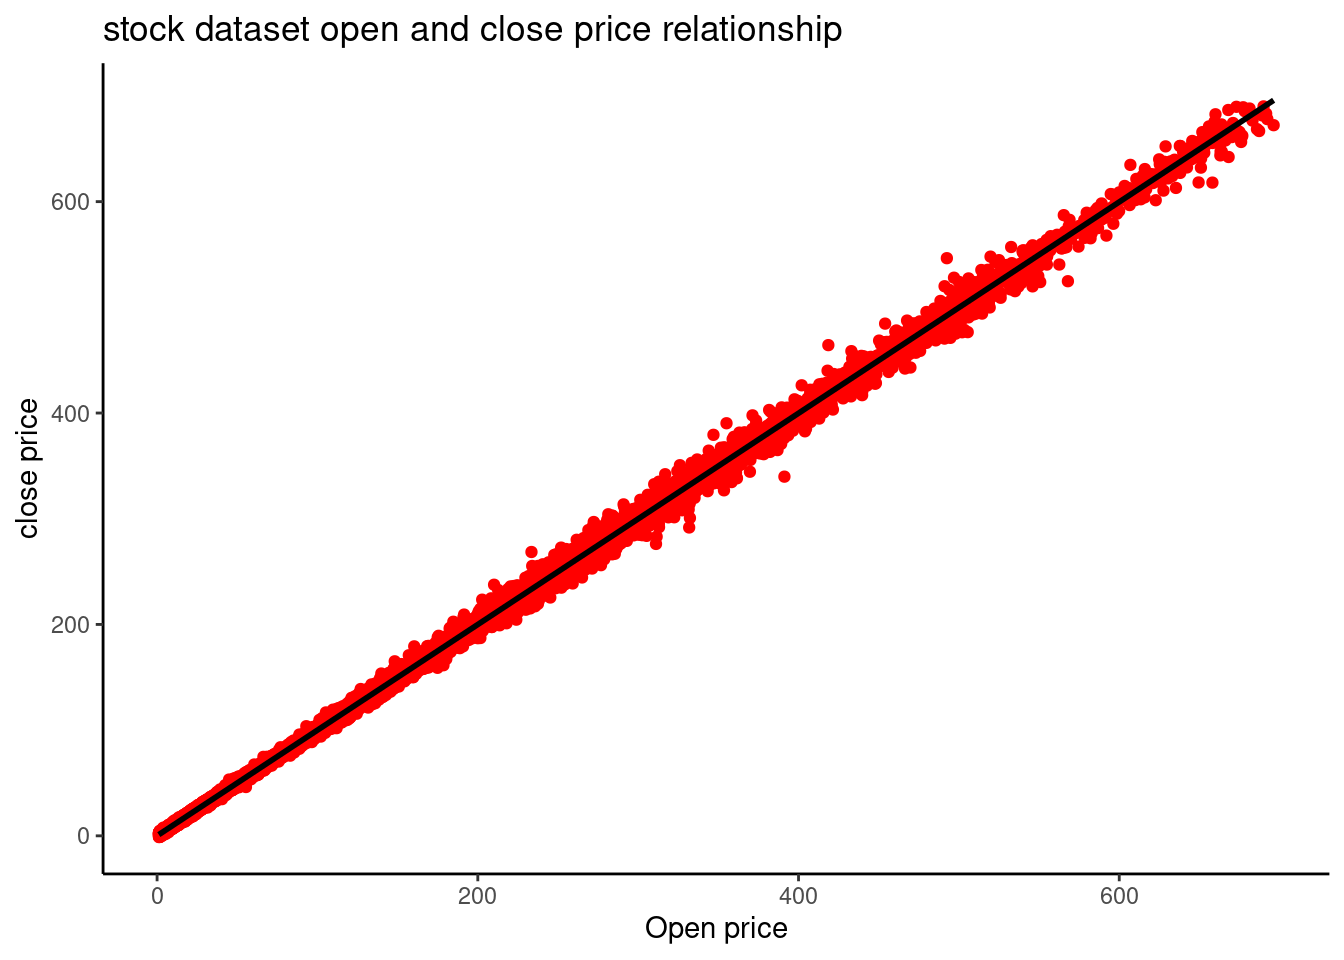
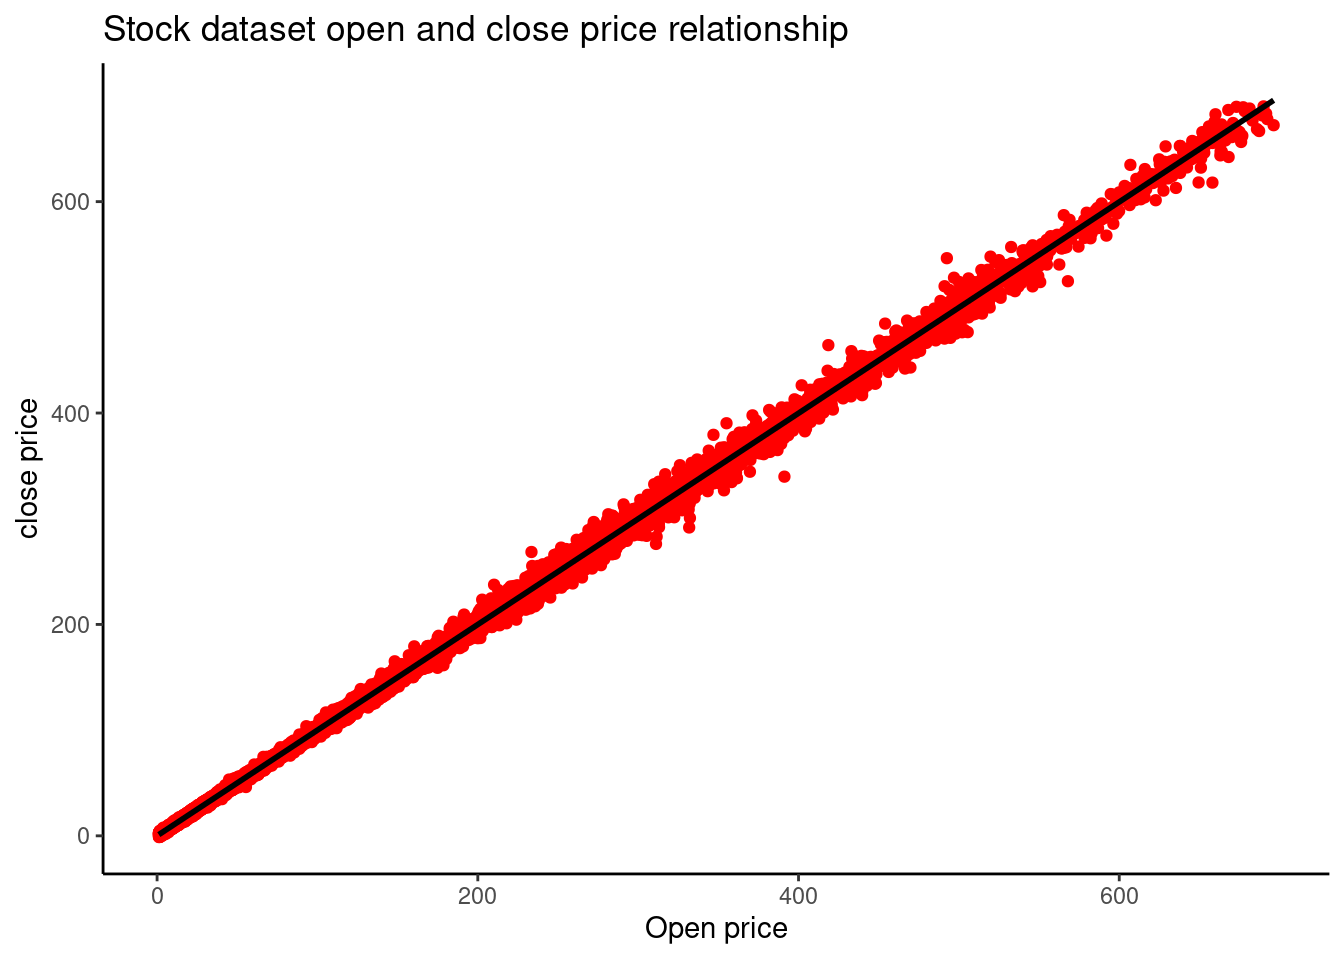
Added narrative until Ridge Regression

Changed region(s): [[0.0625, 0.0, 0.625, 0.0625]]

diff --git a/hw-04.html b/hw-04.html
@@ -114,9 +114,10 @@ pre > code.sourceCode > span > a:first-child::before { text-decoration: underlin
 </section>
 <section id="regression-in-r" class="level1">
 <h1>Regression in r</h1>
-<p>Regression is a modeling technique for predicting quantitative-valued target attributes.</p>
+<p>Regression is a modeling technique for predicting quantitative-valued target attributes. Works on the principle of <code>y = mx + c</code> .</p>
 <div class="cell">
-<div class="sourceCode cell-code" id="cb1"><pre class="sourceCode r code-with-copy"><code class="sourceCode r"><span id="cb1-1"><a href="#cb1-1" aria-hidden="true" tabindex="-1"></a>stock<span class="ot">&lt;-</span> readr<span class="sc">::</span><span class="fu">read_csv</span>(<span class="st">'https://raw.githubusercontent.com/rfordatascience/tidytuesday/master/data/2023/2023-02-07/big_tech_stock_prices.csv'</span>)</span></code><button title="Copy to Clipboard" class="code-copy-button"><i class="bi"></i></button></pre></div>
+<div class="sourceCode cell-code" id="cb1"><pre class="sourceCode r code-with-copy"><code class="sourceCode r"><span id="cb1-1"><a href="#cb1-1" aria-hidden="true" tabindex="-1"></a><span class="co"># Reading the CSV</span></span>
+<span id="cb1-2"><a href="#cb1-2" aria-hidden="true" tabindex="-1"></a>stock<span class="ot">&lt;-</span> readr<span class="sc">::</span><span class="fu">read_csv</span>(<span class="st">'https://raw.githubusercontent.com/rfordatascience/tidytuesday/master/data/2023/2023-02-07/big_tech_stock_prices.csv'</span>)</span></code><button title="Copy to Clipboard" class="code-copy-button"><i class="bi"></i></button></pre></div>
 <div class="cell-output cell-output-stderr">
 <pre><code>Rows: 45088 Columns: 8
 ── Column specification ────────────────────────────────────────────────────────
@@ -184,7 +185,7 @@ date (1): date
 <span id="cb9-15"><a href="#cb9-15" aria-hidden="true" tabindex="-1"></a><span class="fu">ggplot</span>(stock,<span class="fu">aes</span>(<span class="at">x=</span>X, <span class="at">y=</span>y)) <span class="sc">+</span></span>
 <span id="cb9-16"><a href="#cb9-16" aria-hidden="true" tabindex="-1"></a> <span class="fu">geom_point</span>(<span class="at">color =</span> <span class="st">"red"</span>) <span class="sc">+</span></span>
 <span id="cb9-17"><a href="#cb9-17" aria-hidden="true" tabindex="-1"></a>  <span class="fu">geom_smooth</span>(<span class="at">method =</span> <span class="st">"lm"</span>,<span class="at">color =</span> <span class="st">"black"</span>, <span class="at">linewidth =</span> <span class="dv">1</span>) <span class="sc">+</span></span>
-<span id="cb9-18"><a href="#cb9-18" aria-hidden="true" tabindex="-1"></a>  <span class="fu">ggtitle</span>(<span class="st">"stock dataset open and close price relationship"</span>) <span class="sc">+</span></span>
+<span id="cb9-18"><a href="#cb9-18" aria-hidden="true" tabindex="-1"></a>  <span class="fu">ggtitle</span>(<span class="st">"Stock dataset open and close price relationship"</span>) <span class="sc">+</span></span>
 <span id="cb9-19"><a href="#cb9-19" aria-hidden="true" tabindex="-1"></a>  </span>
 <span id="cb9-20"><a href="#cb9-20" aria-hidden="true" tabindex="-1"></a>  <span class="fu">theme_classic</span>()<span class="sc">+</span></span>
 <span id="cb9-21"><a href="#cb9-21" aria-hidden="true" tabindex="-1"></a>  <span class="fu">xlab</span>(<span class="st">"Open price"</span>)<span class="sc">+</span></span>
@@ -196,9 +197,13 @@ date (1): date
 <p><img src="hw-04_files/figure-html/unnamed-chunk-4-1.png" class="img-fluid" width="672"></p>
 </div>
 </div>
+<ul>
+<li>The above plots depicts that when the open price increases the closing price also increases and the data looks to be linear.</li>
+</ul>
 </section>
 <section id="multiple-linear-regression" class="level2">
 <h2 class="anchored" data-anchor-id="multiple-linear-regression">Multiple linear regression</h2>
+<p>Multiple linear regression is a statistical method used to model the relationship between a dependent variable and two or more independent variables.</p>
 <p>Step 1: split input data into training and test sets:</p>
 <div class="cell">
 <div class="sourceCode cell-code" id="cb11"><pre class="sourceCode r code-with-copy"><code class="sourceCode r"><span id="cb11-1"><a href="#cb11-1" aria-hidden="true" tabindex="-1"></a><span class="co"># Train/test split</span></span>
@@ -226,6 +231,9 @@ date (1): date
 <span id="cb11-23"><a href="#cb11-23" aria-hidden="true" tabindex="-1"></a>X_test <span class="ot">&lt;-</span> test_data<span class="sc">$</span>X</span>
 <span id="cb11-24"><a href="#cb11-24" aria-hidden="true" tabindex="-1"></a>y_test <span class="ot">&lt;-</span> test_data<span class="sc">$</span>y</span></code><button title="Copy to Clipboard" class="code-copy-button"><i class="bi"></i></button></pre></div>
 </div>
+<ul>
+<li>Splitting the data into train and test data.</li>
+</ul>
 <p>Step 2: Fit regression model to Training Set</p>
 <div class="cell">
 <div class="sourceCode cell-code" id="cb12"><pre class="sourceCode r code-with-copy"><code class="sourceCode r"><span id="cb12-1"><a href="#cb12-1" aria-hidden="true" tabindex="-1"></a><span class="co"># Create a linear regression model specification </span></span>
@@ -240,12 +248,18 @@ date (1): date
 <span id="cb12-10"><a href="#cb12-10" aria-hidden="true" tabindex="-1"></a>lin_reg_fit <span class="ot">&lt;-</span>lin_ref_spec <span class="sc">|&gt;</span></span>
 <span id="cb12-11"><a href="#cb12-11" aria-hidden="true" tabindex="-1"></a>  <span class="fu">fit</span>(y<span class="sc">~</span> X, <span class="at">data =</span> train_data)</span></code><button title="Copy to Clipboard" class="code-copy-button"><i class="bi"></i></button></pre></div>
 </div>
+<ul>
+<li>We are fitting the model using the train data where the X is features (<code>open</code> ) and y is the <code>close</code> price.</li>
+</ul>
 <p>Step 3: Apply Model to the Test Set</p>
 <div class="cell">
 <div class="sourceCode cell-code" id="cb13"><pre class="sourceCode r code-with-copy"><code class="sourceCode r"><span id="cb13-1"><a href="#cb13-1" aria-hidden="true" tabindex="-1"></a><span class="co"># Apply model to the test set </span></span>
 <span id="cb13-2"><a href="#cb13-2" aria-hidden="true" tabindex="-1"></a>y_pred_test <span class="ot">&lt;-</span> <span class="fu">predict</span>(lin_reg_fit, <span class="at">new_data =</span>test_data) <span class="sc">|&gt;</span></span>
 <span id="cb13-3"><a href="#cb13-3" aria-hidden="true" tabindex="-1"></a>  <span class="fu">pull</span>(.pred)</span></code><button title="Copy to Clipboard" class="code-copy-button"><i class="bi"></i></button></pre></div>
 </div>
+<ul>
+<li>Exposing model to the new data (test data) to check how generalized the model performs.</li>
+</ul>
 <p>Step 4: Evaluate Model Performance on the test set</p>
 <div class="cell">
 <div class="sourceCode cell-code" id="cb14"><pre class="sourceCode r code-with-copy"><code class="sourceCode r"><span id="cb14-1"><a href="#cb14-1" aria-hidden="true" tabindex="-1"></a><span class="co"># Plotting true vs ppredicted values</span></span>
@@ -259,6 +273,9 @@ date (1): date
 <p><img src="hw-04_files/figure-html/unnamed-chunk-8-1.png" class="img-fluid" width="672"></p>
 </div>
 </div>
+<ul>
+<li>From the above plot we can that the predicted values are close to the true values which says the model has performed good and it is linear, still there is room for improvement.</li>
+</ul>
 <div class="cell">
 <div class="sourceCode cell-code" id="cb15"><pre class="sourceCode r code-with-copy"><code class="sourceCode r"><span id="cb15-1"><a href="#cb15-1" aria-hidden="true" tabindex="-1"></a><span class="fu">library</span>(yardstick)</span>
 <span id="cb15-2"><a href="#cb15-2" aria-hidden="true" tabindex="-1"></a></span>
@@ -280,12 +297,19 @@ date (1): date
 <pre><code>Root mean squared error = 2.8092 </code></pre>
 </div>
 </div>
+<ul>
+<li><p>The <code>RMSE</code> value suggest that how foar each point in the data is far away from the true value.</p></li>
+<li><p>2.8092 is relatively low value, so the predictions has less amount of deviation from the true value.</p></li>
+</ul>
 <div class="cell">
 <div class="sourceCode cell-code" id="cb17"><pre class="sourceCode r code-with-copy"><code class="sourceCode r"><span id="cb17-1"><a href="#cb17-1" aria-hidden="true" tabindex="-1"></a><span class="fu">cat</span>(<span class="st">'R-squared ='</span>, <span class="fu">sprintf</span>(<span class="st">"%.4f"</span>,r2_value<span class="sc">$</span>.estimate),<span class="st">"</span><span class="sc">\n</span><span class="st">"</span>)</span></code><button title="Copy to Clipboard" class="code-copy-button"><i class="bi"></i></button></pre></div>
 <div class="cell-output cell-output-stdout">
 <pre><code>R-squared = 0.9993 </code></pre>
 </div>
 </div>
+<ul>
+<li><code>R-Squared</code> = 0.9993 is high value, which means that the model has a good fit on the data and works well newly exposed data as well.</li>
+</ul>
 <p>Step 5: Postprocessing</p>
 <div class="cell">
 <div class="sourceCode cell-code" id="cb19"><pre class="sourceCode r code-with-copy"><code class="sourceCode r"><span id="cb19-1"><a href="#cb19-1" aria-hidden="true" tabindex="-1"></a><span class="co"># Display model parameters</span></span>
@@ -299,6 +323,9 @@ date (1): date
 <pre><code>Slope = 0.1048996 </code></pre>
 </div>
 </div>
+<ul>
+<li>The slope of the variables is positive thsi means that two variables are related and when <code>X</code> increases so does <code>y</code>.</li>
+</ul>
 <div class="cell">
 <div class="sourceCode cell-code" id="cb21"><pre class="sourceCode r code-with-copy"><code class="sourceCode r"><span id="cb21-1"><a href="#cb21-1" aria-hidden="true" tabindex="-1"></a><span class="do">### Step 4: Preprocessing</span></span>
 <span id="cb21-2"><a href="#cb21-2" aria-hidden="true" tabindex="-1"></a></span>
@@ -316,7 +343,8 @@ date (1): date
 </section>
 <section id="effect-of-correlated-attributes" class="level2">
 <h2 class="anchored" data-anchor-id="effect-of-correlated-attributes">Effect of correlated attributes</h2>
-<p>Creating the correlated attributes:</p>
+<p>Finding out how each feature responds to one another: (for example:when one increases other also does or simple words is cause and effect);</p>
+<p>Assigning the correlated attributes: (<code>High, low , adj_close , volume</code>):</p>
 <div class="cell">
 <div class="sourceCode cell-code" id="cb22"><pre class="sourceCode r code-with-copy"><code class="sourceCode r"><span id="cb22-1"><a href="#cb22-1" aria-hidden="true" tabindex="-1"></a><span class="co"># mentioning the other features in the data</span></span>
 <span id="cb22-2"><a href="#cb22-2" aria-hidden="true" tabindex="-1"></a><span class="fu">set.seed</span>(<span class="dv">1</span>)</span>
@@ -352,6 +380,12 @@ date (1): date
 <p><img src="hw-04_files/figure-html/unnamed-chunk-13-1.png" class="img-fluid" width="672"></p>
 </div>
 </div>
+<ul>
+<li><p>Plot1: X and X2 has strong correlation as x increases y also increases.</p></li>
+<li><p>Plot2: X2 and X3 has strong correlation as X and X2.</p></li>
+<li><p>Plot 3: X3 and X4 also has strong correlation but has some point of deviation at some point of interval as seen above.</p></li>
+<li><p>Plot 4: X4 and X5 are independent of each other as the graph is not linear so it has a weak correlation.</p></li>
+</ul>
 <div class="cell">
 <div class="sourceCode cell-code" id="cb23"><pre class="sourceCode r code-with-copy"><code class="sourceCode r"><span id="cb23-1"><a href="#cb23-1" aria-hidden="true" tabindex="-1"></a><span class="co"># Split data into training and testing sets</span></span>
 <span id="cb23-2"><a href="#cb23-2" aria-hidden="true" tabindex="-1"></a>train_indices <span class="ot">&lt;-</span> <span class="dv">1</span><span class="sc">:</span>(numInstances <span class="sc">-</span> numTest)</span>
@@ -370,6 +404,9 @@ date (1): date
 <span id="cb23-15"><a href="#cb23-15" aria-hidden="true" tabindex="-1"></a>X_train5 <span class="ot">&lt;-</span> <span class="fu">cbind</span>(X[train_indices], X2[train_indices], X3[train_indices], X4[train_indices], X5[train_indices])</span>
 <span id="cb23-16"><a href="#cb23-16" aria-hidden="true" tabindex="-1"></a>X_test5 <span class="ot">&lt;-</span> <span class="fu">cbind</span>(X[test_indices], X2[test_indices], X3[test_indices], X4[test_indices], X5[test_indices])</span></code><button title="Copy to Clipboard" class="code-copy-button"><i class="bi"></i></button></pre></div>
 </div>
+<ul>
+<li>Again splitting the data into train and test sets for newly created distribution with new features.</li>
+</ul>
 <div class="cell">
 <div class="sourceCode cell-code" id="cb24"><pre class="sourceCode r code-with-copy"><code class="sourceCode r"><span id="cb24-1"><a href="#cb24-1" aria-hidden="true" tabindex="-1"></a><span class="co"># Convert matrices to tibbles for training</span></span>
 <span id="cb24-2"><a href="#cb24-2" aria-hidden="true" tabindex="-1"></a>train_data2 <span class="ot">&lt;-</span> <span class="fu">tibble</span>(<span class="at">X1 =</span> X_train2[,<span class="dv">1</span>], <span class="at">X2 =</span> X_train2[,<span class="dv">2</span>], <span class="at">y =</span> y_train)</span>
@@ -390,6 +427,10 @@ date (1): date
 <span id="cb24-17"><a href="#cb24-17" aria-hidden="true" tabindex="-1"></a>regr5_spec <span class="ot">&lt;-</span> <span class="fu">linear_reg</span>() <span class="sc">%&gt;%</span> <span class="fu">set_engine</span>(<span class="st">"lm"</span>)</span>
 <span id="cb24-18"><a href="#cb24-18" aria-hidden="true" tabindex="-1"></a>regr5_fit <span class="ot">&lt;-</span> regr5_spec <span class="sc">%&gt;%</span> <span class="fu">fit</span>(y <span class="sc">~</span> X1 <span class="sc">+</span> X2 <span class="sc">+</span> X3 <span class="sc">+</span> X4 <span class="sc">+</span> X5, <span class="at">data =</span> train_data5)</span></code><button title="Copy to Clipboard" class="code-copy-button"><i class="bi"></i></button></pre></div>
 </div>
+<ul>
+<li><p>Fitting different linear models with different set of features.</p></li>
+<li><p>This ensures which features works best to predict the target.</p></li>
+</ul>
 <div class="cell">
 <div class="sourceCode cell-code" id="cb25"><pre class="sourceCode r code-with-copy"><code class="sourceCode r"><span id="cb25-1"><a href="#cb25-1" aria-hidden="true" tabindex="-1"></a><span class="co"># Convert matrices to data.frames for predictions</span></span>
 <span id="cb25-2"><a href="#cb25-2" aria-hidden="true" tabindex="-1"></a>new_train_data2 <span class="ot">&lt;-</span> <span class="fu">setNames</span>(<span class="fu">as.data.frame</span>(X_train2), <span class="fu">c</span>(<span class="st">"X1"</span>, <span class="st">"X2"</span>))</span>
@@ -417,6 +458,9 @@ date (1): date
 <span id="cb25-24"><a href="#cb25-24" aria-hidden="true" tabindex="-1"></a>y_pred_train5 <span class="ot">&lt;-</span> <span class="fu">predict</span>(regr5_fit, <span class="at">new_data =</span> new_train_data5)</span>
 <span id="cb25-25"><a href="#cb25-25" aria-hidden="true" tabindex="-1"></a>y_pred_test5 <span class="ot">&lt;-</span> <span class="fu">predict</span>(regr5_fit, <span class="at">new_data =</span> new_test_data5)</span></code><button title="Copy to Clipboard" class="code-copy-button"><i class="bi"></i></button></pre></div>
 </div>
+<ul>
+<li>Exposing the created models with different set of features to test set, so that we can find the error and accuracy of the model predictions.</li>
+</ul>
 <div class="cell">
 <div class="sourceCode cell-code" id="cb26"><pre class="sourceCode r code-with-copy"><code class="sourceCode r"><span id="cb26-1"><a href="#cb26-1" aria-hidden="true" tabindex="-1"></a><span class="co"># Extract coefficients and intercepts</span></span>
 <span id="cb26-2"><a href="#cb26-2" aria-hidden="true" tabindex="-1"></a>get_coef <span class="ot">&lt;-</span> <span class="cf">function</span>(model) {</span>
@@ -475,9 +519,15 @@ date (1): date
 # ℹ abbreviated name: ¹Sum_of_Absolute_Weights</code></pre>
 </div>
 </div>
+<ul>
+<li><p>Sum of Absolute weights show the model complexity, as you can with our predictions, as the number of features goes higher the model complexity also increases.</p></li>
+<li><p>As you can see, the train error for the model is less compared to the test error which on a higher rate compared. This means that model has overfitting issues (works well on the train data and not the testing data) and works bad for new data.</p></li>
+<li><p>To avoid this issue, we can use regularization (Induce penalty for the model to correct the errors)</p></li>
+</ul>
 </section>
 <section id="ridge-regression" class="level2">
 <h2 class="anchored" data-anchor-id="ridge-regression">Ridge Regression</h2>
+<p>Ridge regression is a model tuning method that is used to analyse any data that suffers from multicollinearity. This method performs L2 regularization. When the issue of multicollinearity occurs, least-squares are unbiased, and variances are large, this results in predicted values being far away from the actual values.</p>
 <div class="cell">
 <div class="sourceCode cell-code" id="cb29"><pre class="sourceCode r code-with-copy"><code class="sourceCode r"><span id="cb29-1"><a href="#cb29-1" aria-hidden="true" tabindex="-1"></a><span class="co"># Convert to data frame</span></span>
 <span id="cb29-2"><a href="#cb29-2" aria-hidden="true" tabindex="-1"></a>train_data <span class="ot">&lt;-</span> <span class="fu">tibble</span>(<span class="at">y =</span> y_train, X_train5)</span>
@@ -539,9 +589,16 @@ shorter object length</code></pre>
 # ℹ abbreviated name: ¹Sum_of_Absolute_Weights</code></pre>
 </div>
 </div>
+<ul>
+<li><p>As you can see the Ridge regression worked best when there a lot of features used, the last model with 5 features open, high, low, adj_close, volume.</p></li>
+<li><p>The test error has decreased drastically when compared to the other models where was no improvement.</p></li>
+<li><p>The tradeofff here is that the test error has increased but the sum of the weights or the complexity of the model has also increased.</p></li>
+<li><p>But we can that most of the coefficients has been reduced to zero to generalize to the unseen data. Therefore Ridge regression has some progress in reducing the test error rate.</p></li>
+</ul>
 </section>
 <section id="lasso-regression" class="level2">
 <h2 class="anchored" data-anchor-id="lasso-regression">Lasso regression</h2>
+<p>LASSO regression, also known as L1 regularization, is a popular technique used in statistical modeling and machine learning to estimate the relationships between variables and make predictions. LASSO stands for Least Absolute Shrinkage and Selection Operator. The primary goal of LASSO regression is to find a balance between model simplicity and accuracy. It achieves this by adding a penalty term to the traditional linear regression model, which encourages sparse solutions where some coefficients are forced to be exactly zero.</p>
 <div class="cell">
 <div class="sourceCode cell-code" id="cb33"><pre class="sourceCode r code-with-copy"><code class="sourceCode r"><span id="cb33-1"><a href="#cb33-1" aria-hidden="true" tabindex="-1"></a><span class="co"># Define the lasso specification</span></span>
 <span id="cb33-2"><a href="#cb33-2" aria-hidden="true" tabindex="-1"></a>lasso_spec <span class="ot">&lt;-</span> <span class="fu">linear_reg</span>(<span class="at">penalty =</span> <span class="fl">0.02</span>, <span class="at">mixture =</span> <span class="dv">1</span>) <span class="sc">%&gt;%</span> </span>
